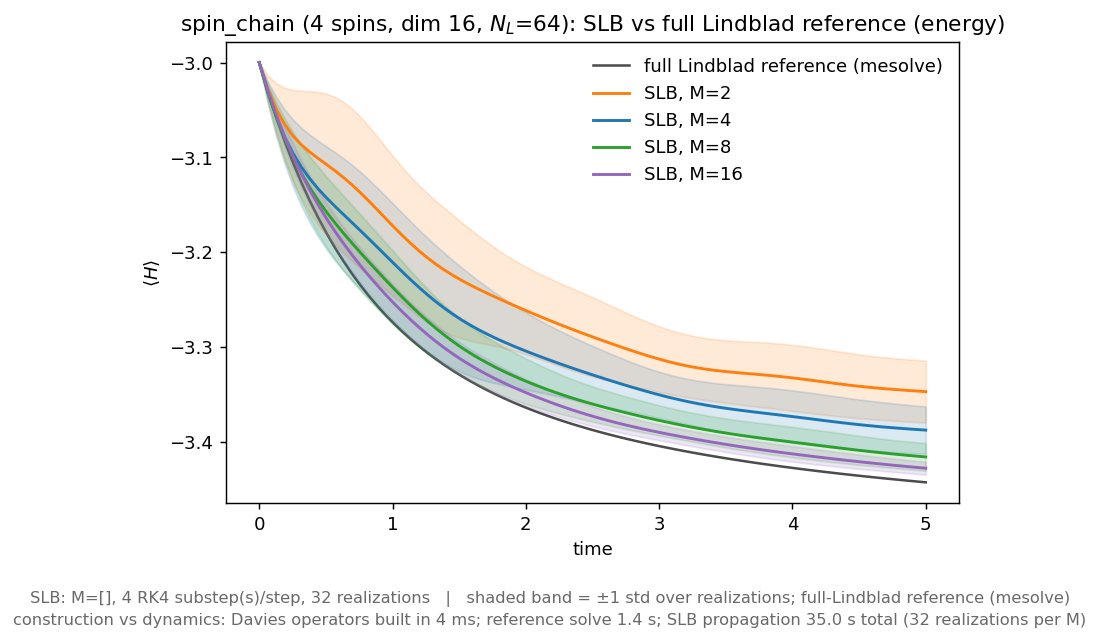
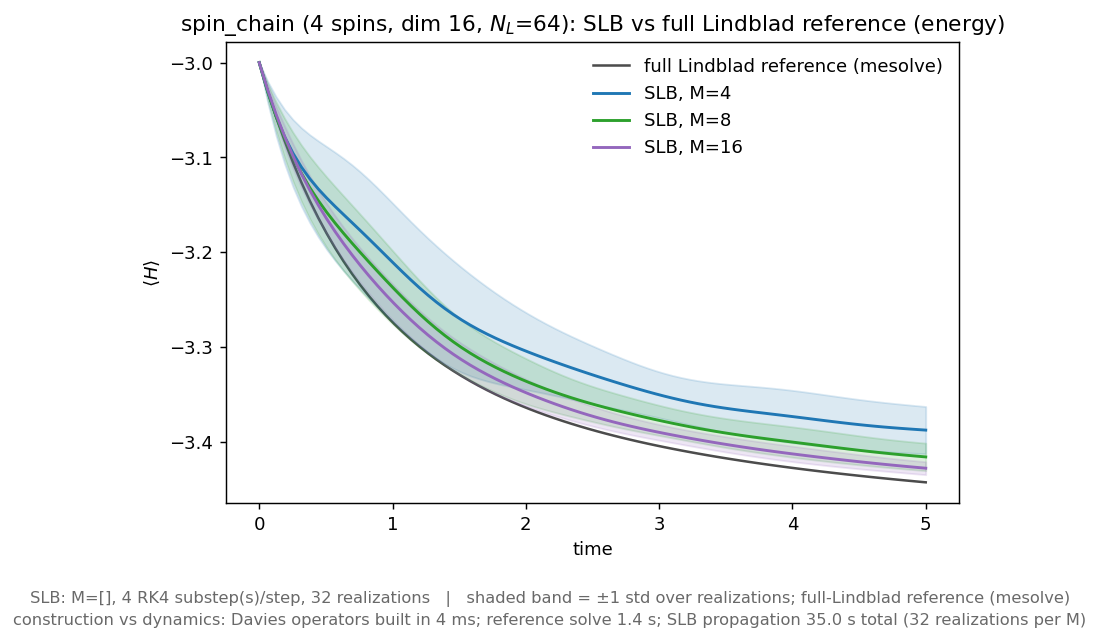
Update Result 1: adjust M sweeps, apply single-panel layout, and clean up old schematics

Changed region(s): [[0.2475, 0.1248, 0.8662, 0.6864], [0.5878, 0.2184, 0.6806, 0.2808], [0.6497, 0.1248, 0.6806, 0.156]]

diff --git a/benchmarks/plot_accuracy_vs_M.py b/benchmarks/plot_accuracy_vs_M.py
@@ -78,7 +78,7 @@ def accuracy_figure(plt, name, doc, tlist, reference, curves,
     # Set to None if you want to plot all available M values.
     # ---------------------------------------------------------
     M_TO_PLOT = {
-        "spin_chain": [2, 4, 8, 16],
+        "spin_chain": [4, 8, 16],
         "oscillator_bath": [2, 4]
     }
 
